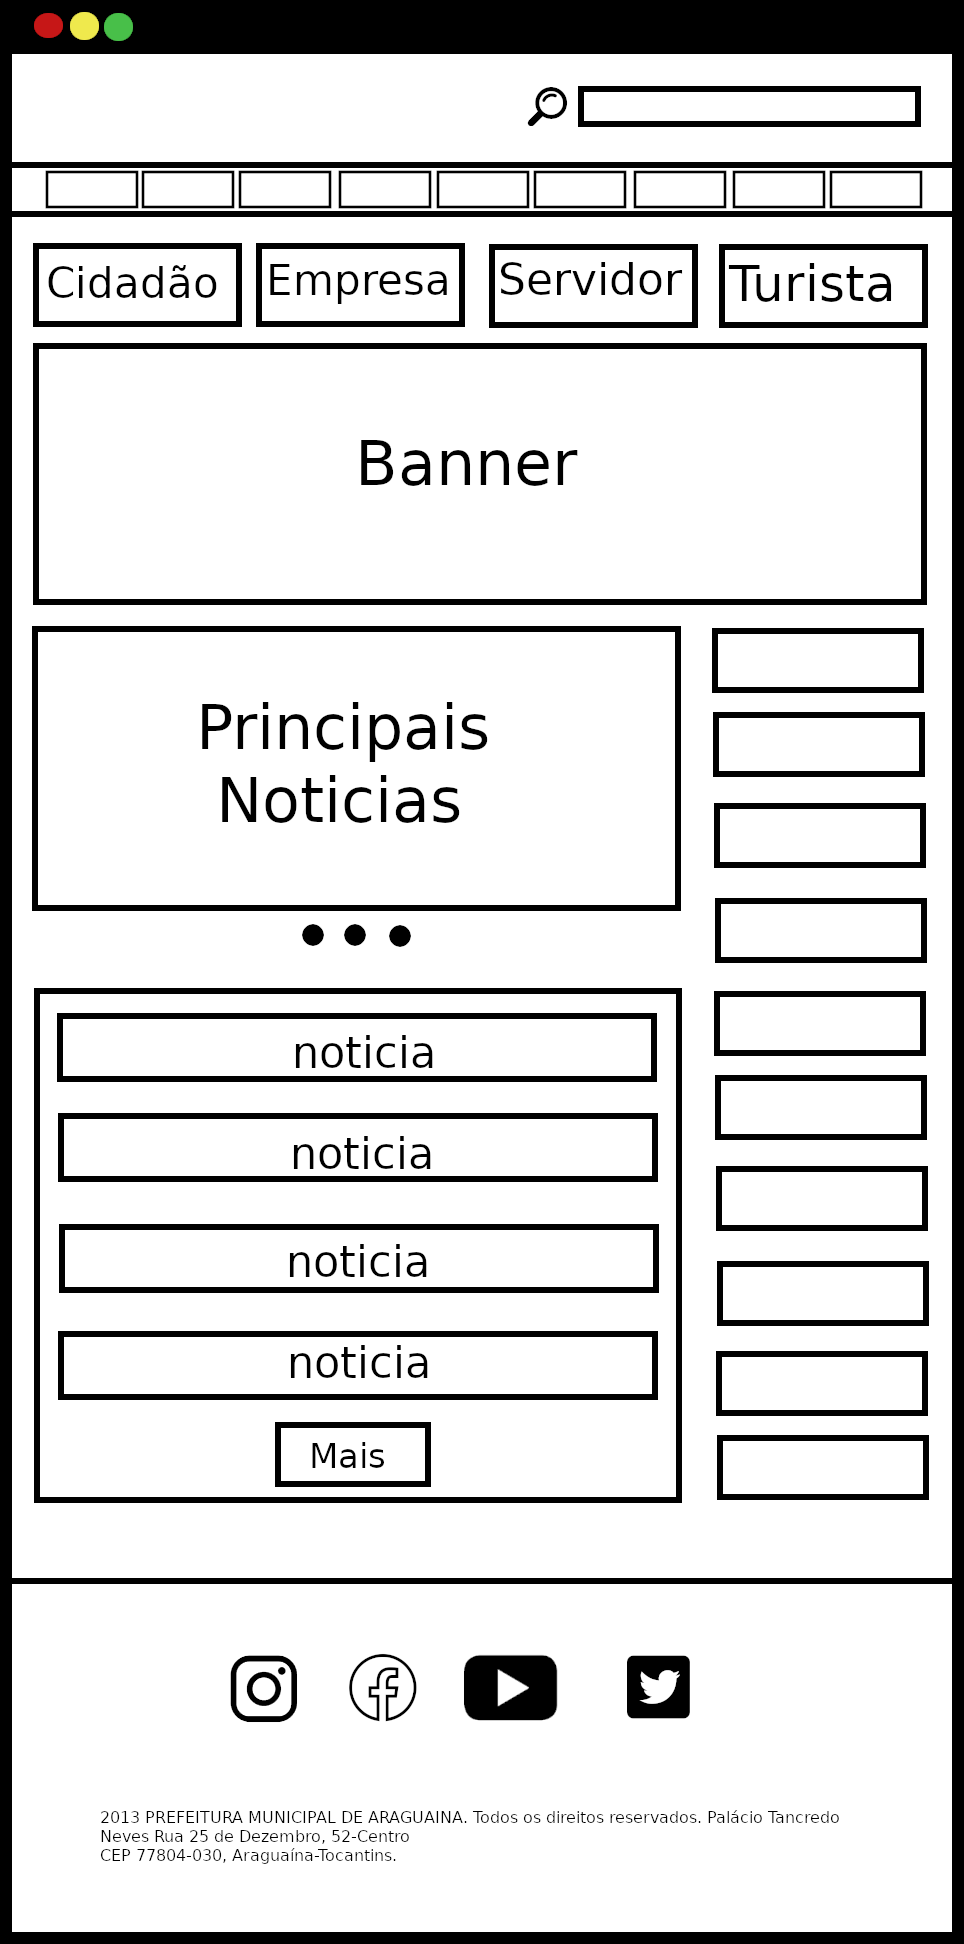
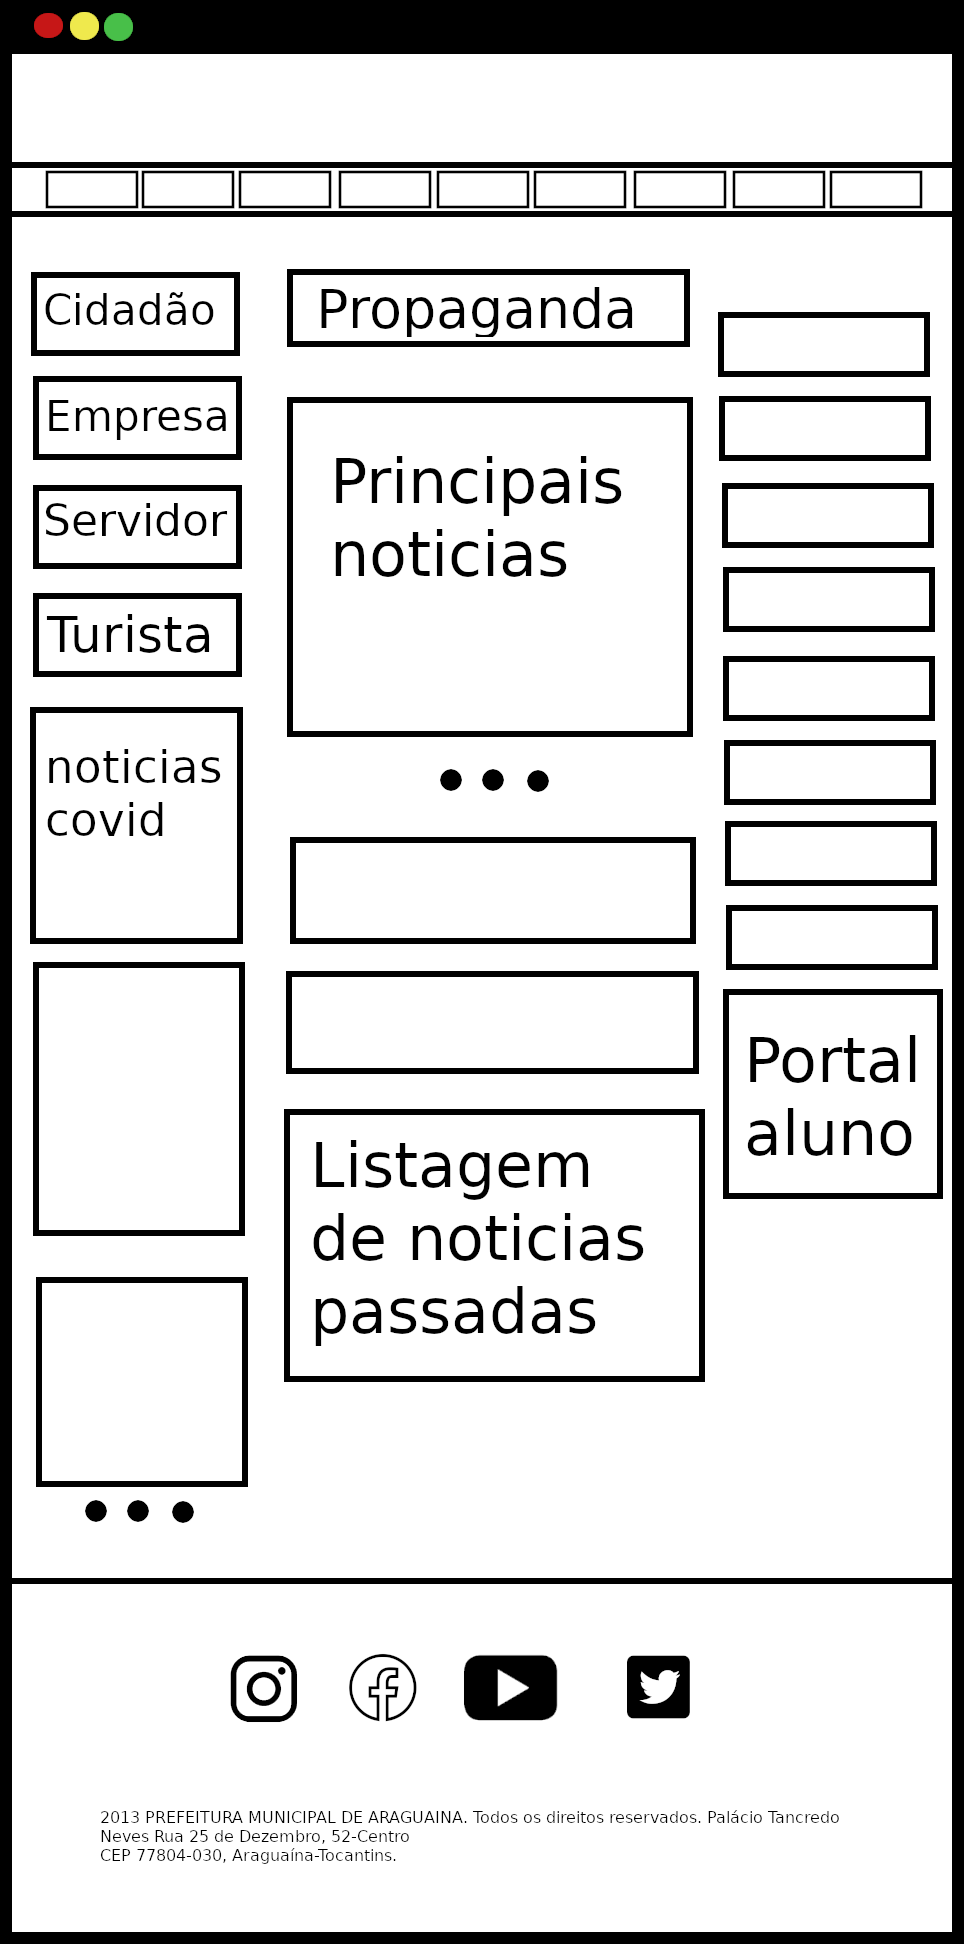
Adicionando guia de estilo

Changed region(s): [[0.0311, 0.1235, 0.9959, 0.8025], [0.5602, 0.0309, 0.6224, 0.0617], [0.9336, 0.0309, 0.9647, 0.0617]]

diff --git a/_doc/requisitos/guiaEstilo.md b/_doc/requisitos/guiaEstilo.md
@@ -2,77 +2,150 @@
 title: Guia de Estilo
 sections:
     - Introducao
-    - Objetivo guia de estilo
     - Resultado da analise
     - Elementos de interface
+    - Elementos de Interacao
+    - Elementos de acao
+    - Vocabulario e padroes
 ---
 
-## Introdução {#introducao}
+## 1. Introdução {#introducao}
 
 Guia de estilo como o nome se propõe serve como guia para a equipe de design e a equipe de desenvolvimento para registrar as principais decisões tornando-as de fácil consulta e utilização por todas as equipes. Com isso mantém-se o padrão de design em extensões e futuras versões do produto (Barbosa e Silva, 2010).
 
-## Objetivo do guia de estilo {#objetivo-guia-de-estilo}
+#### 1.1 Objetivo do guia de estilo {#objetivo-guia-de-estilo}
 
 Esse guia tem como objetivo documentar as características do site analisado e suas principais escolhas de design escolhidas pelos desenvolvedores
 
-## Organização e Conteúdo
+#### 1.2 Organização e Conteúdo
 
 Este guia de estilo seguirá o padrão Marcus e Mayhew onde será separado por seis tópicos.
 
-## Público Alvo
+#### 1.3 Público Alvo
 
 O público alvo deste guia são os membros da nossa equipe que desejam realizar correções nos elementos problemáticos identificados.
 
-## Como utilizar o guia
+#### 1.4 Como utilizar o guia
 
 Este guia servirá como base para a elaboração do protótipo de melhoria do site e a cada etapa dentro do ciclo de Mayhew deve-se aplicar o guia de estilo ao projeto.
 
-## Como manter o guia
+#### 1.5 Como manter o guia
 
 Como sugerido por Mayhew o guia deve ser atualizado ao final de cada fase, tornando-se assim possível a sua evolução no decorrer do projeto.
 
-## Resultado da análise {#resultado-da-analise}
+## 2. Resultado da análise {#resultado-da-analise}
+
+#### 2.1 Descrição do ambiente de trabalho do usuário
 
 Ao acessar o site o usuário se depara com uma página que é voltada a mostrar as noticías mais recentes da cidade
-de Araguaína do Tocantins, a página possui uma divisão em três partes, sendo elas dispostas das seguinte maneira:
+de Araguaína do Tocantins, a página inicial também possui uma navbar e duas sidebars deixando a navegação no site
+complexa e sobrecarregada. Ao clicar em qualquer um dos botões dessas barras o usuário consegue navegar por todas as regiões do site.
+
+
+## 3. Elementos de  interface {#elementos-de-interface}
+
+#### 3.1 Disposição espacial no grid
+A disposição do layout do site se dá de maneira bagunçada e poluida por excesso de informações, alguns botões não
+levam o usuário ao local devido deixando a navegação cansativa e frustante para os usuários.
+
+As janelas de noticia seguem um padrão confuso e ruim deixando fraca a navegação do site comprometida, para solucionar esse
+problema foi desenvolvido um grid para ser um padrão melhorado pois além de mostrar a noticia selecionada o protótipo mostra outras notícias
+fazendo com que os usuários se mantenham no site. Segue abaixo o protótipo elaborado:
 
 <div class="screenshot-holder" style="display: flex; justify-content: center;margin: 2rem auto">
-  ![regioes do site](assets/images/guiaDeEstilo/regioes.png){: .img-responsive}
+![Prototipo elaborado](assets/images/guiaDeEstilo/prototipo.png){: .img-responsive}
 </div>
 
-#### **Parte 1**
-
-É apresentado um menu de funcionalidades disponíveis para o usuário, dentre as quais o usuário pode realizar a tarefa desejada. 
-
-Nessa região também são mostradas informações como a bandeira da cidade, tempo local, temperatura, etc.
-   
-#### **Parte 2**
-
-Parte onde são mostradas as noticías mais recentes da cidade, podendo o usuário acessa-las facilmente.
-
-#### **Parte 3**
-
-Nessa região é mostrado botões para acesso rápido a funcionalidades do site como "Portal de transparência", "Licitações", etc.
-
-
-## Elementos de  interface {#elementos-de-interface}
-
-#### Disposição espacial no grid
-A disposição do layout do site deve se dar de maneira responsiva e simples para que qualquer usuário interessado nos 
-conteúdos ali contidos possa acessar esses materiais de maneira rápida, fácil e com qualquer aparelho que possua,
-independente de sua dimensão.
-
-
-<div class="screenshot-holder" style="display: flex; justify-content: center;margin: 2rem auto">
-j ![Prototipo elaborado](assets/images/guiaDeEstilo/prototipo.png){: .img-responsive}
-</div>
-
-## Janelas
+#### 3.2 Janelas
 
 O site possui inúmeras janelas. Existem janelas para visualizar notícias, para saber mais sobre a história da cidade, acessar contatos, entre outras janelas. A seguir, encontra-se alguns exemplos de janelas do site.
 
 Para padronizar o modelo de janelas apresentado no site, foi desenvolvido o seguinte grid:
 
 <div class="screenshot-holder" style="display: flex; justify-content: center;margin: 2rem auto">
-j ![Prototipo elaborado para paginas](assets/images/guiaDeEstilo/prototiponoticia.png){: .img-responsive}
+![Prototipo elaborado para paginas](assets/images/guiaDeEstilo/prototiponoticia.png){: .img-responsive}
 </div>
+
+#### 3.3 Tipografia
+
+Em relação à tipografia, o site utiliza as seguintes fontes:
+
+<div class="screenshot-holder" style="display: flex; justify-content: center;margin: 2rem auto">
+![Prototipo elaborado para paginas](assets/images/guiaDeEstilo/fonts.png){: .img-responsive}
+</div>
+
+#### 3.4 Símbolos não tipográficos
+
+O site apresenta os seguintes icones não tipográficos:
+
+<div class="screenshot-holder" style="display: flex; justify-content: center;margin: 2rem auto">
+![Prototipo elaborado para paginas](assets/images/guiaDeEstilo/icons.PNG){: .img-responsive}
+</div>
+
+Esses símbolos representam, respectivamente, os seguintes itens:
+- Cidadão
+- Controladoria
+- Empresa
+- Turista
+- Contra Cheque (impar)
+- Licenciamento
+- Decretos, Leis e Portarias
+- Licitações
+- Ouvidoria
+- Ouvidoria do Sus Araguaina
+- Facebook
+- Twitter
+- YouTube
+- Instagram
+- Servidor
+- Portal do Aluno
+
+#### 3.5 Cores
+
+#### 3.6 Animações
+
+Existe animação no carrossel de notícias no centro da página na transição entre elas e no carrossel das campanhas.
+
+## 4. Elementos de interação {#elementos-de-interacao}
+
+#### 4.1 Estilos de interação
+
+Estilos de interação utilizados no site:
+* Menus: possibilitando navegação do usuário pelo site;
+* Linguagem natural: situando o usuário e o que pode fazer;
+* WIMP: **W**indow **I**con **M**enu **P**oint device, utilização de ícones e menus;
+coloca as iniciais em negrito @cobrador73
+no WIMP
+
+#### 4.2 Seleção de um estilo
+
+O estilo de utilização mais presente no site é o de menus em conjunto com os ícones.
+
+#### 4.3 Aceleradores (Teclas de atalho)
+Não foi encontrado nenhum mecanismo facilitador no uso do site.
+
+## 5. Elementos de ação {#elementos-de-acao}
+
+#### 5.1 Preenchimento de campos
+Não existe nenhum campo a ser preenchido no sistema.
+
+#### 5.2 Seleção
+O usuário pode selecionar qualquer texto ou elemento no site.
+
+#### 5.3 Ativação
+
+Seguindo os fundamentos de usabilidade, uma vez dentro do site o usuário tem total liberdade
+
+## 6. Vocabulário e padrões {#vocabulario-e-padroes}
+
+#### 6.1 Terminologia
+
+A linguagem utilizada é em sua maior parte de fácil entendimento, porém existem termos técnicos, administrativos e jurídicos específicos da administração pública que não podem ser alterados.
+
+#### 6.2 Tipos de tela
+
+O site utiliza da tela padrão na maior parte de suas páginas o que dá ao usuário mais conforto e facilidade de aprendizado e interação, porém isso não ocorre na área de imprensa onde é mantido apenas a navbar e o cabeçalho padrão.
+
+#### 6.3 Sequências de diálogos
+
+Não existe nenhuma sequência de diálogos no sistema ou a necessidade de confirmar qualquer ação.
